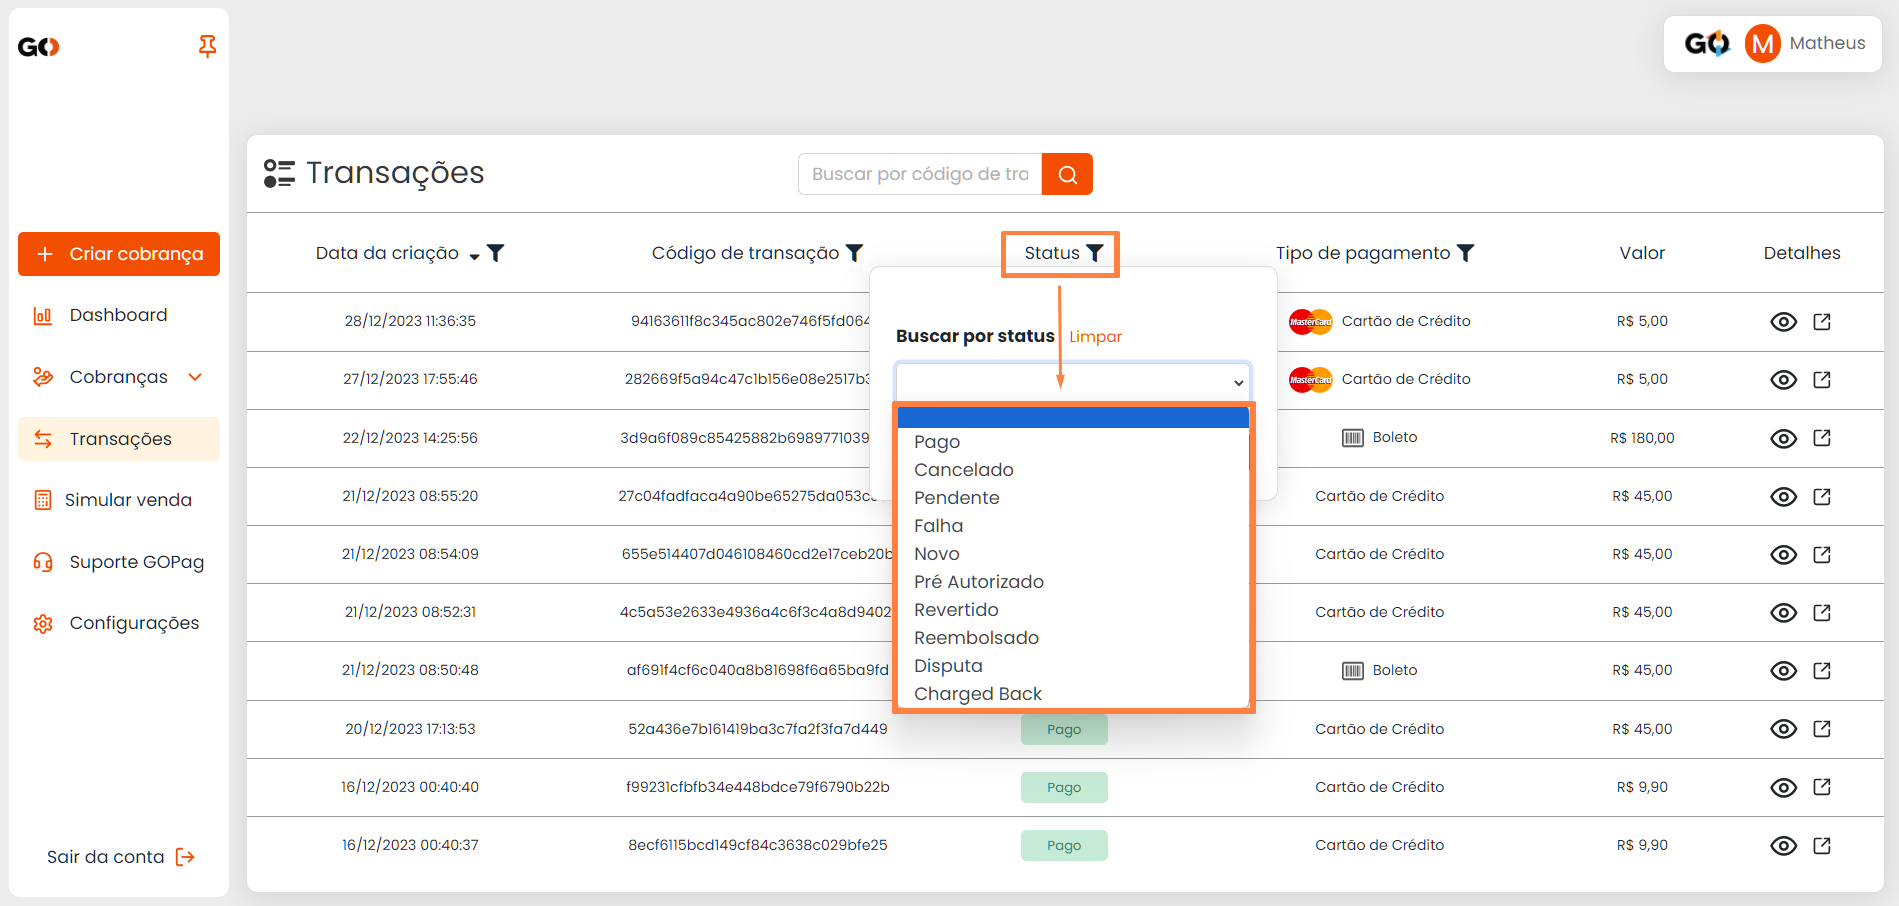
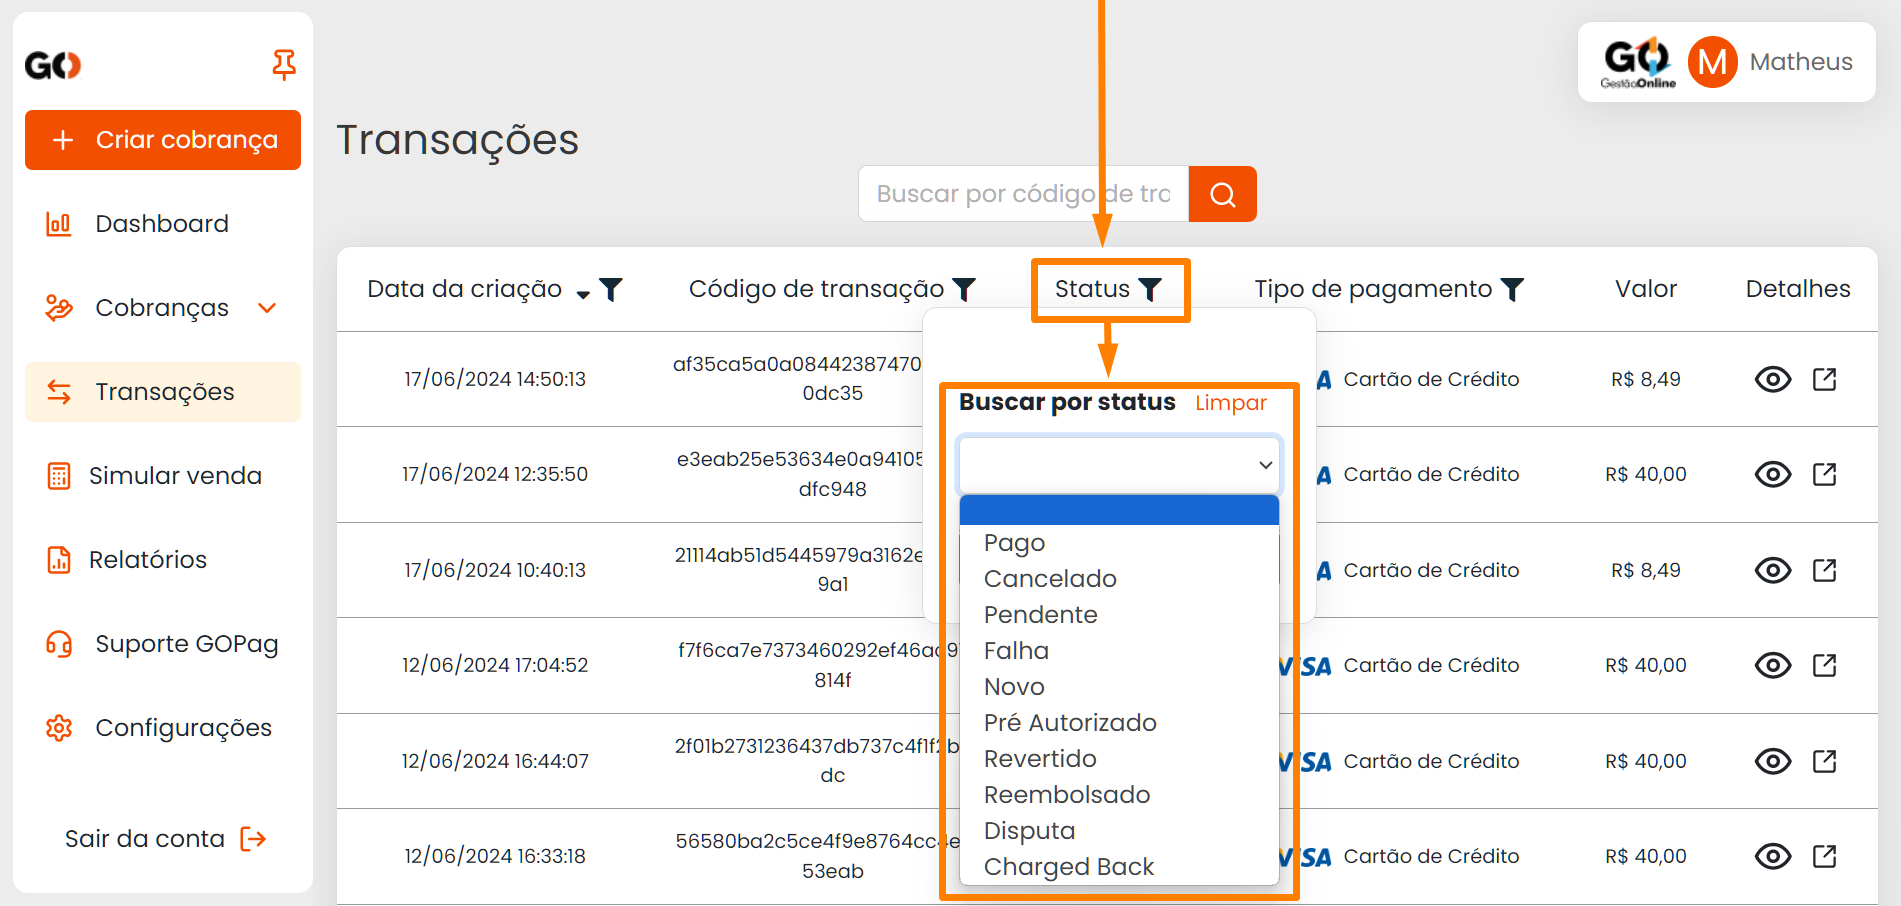
Update novas imagens, versão nova do sistema

diff --git a/TRANSACOES/README.md b/TRANSACOES/README.md
@@ -66,13 +66,13 @@ Passando assim, mais de uma possibilidade para acessar as informações 😉👍
 **Detalhe:** Caso queira mais informações sobre detalhes de transação [clique aqui ](https://docs.gopag.com.br/transacoes/detalhes_transacoes) para acessar a explicação sobre cada parte desta função.
 {% endhint %}
 
-![](/assets/prints/cobrancas_menu_avulsa_detalhes_cobranca.png)
+![](/assets/prints/transacoes_menu_avulsa_detalhes_cobranca.png)
 
 <br>
 
 Logo na parte final das transações fica a paginação, onde você pode aumentar a quantidade visível de cobranças mostradas para até 1000 itens na página:
 
-![](/assets/prints/cobrancas_menu_avulsa_paginacao.png)
+![](/assets/prints/transacoes_menu_avulsa_paginacao.png)
 <p>.</p>
 
-![](/assets/prints/cobrancas_menu_avulsa_paginacao_2.png)
+![](/assets/prints/transacoes_menu_avulsa_paginacao_2.png)
